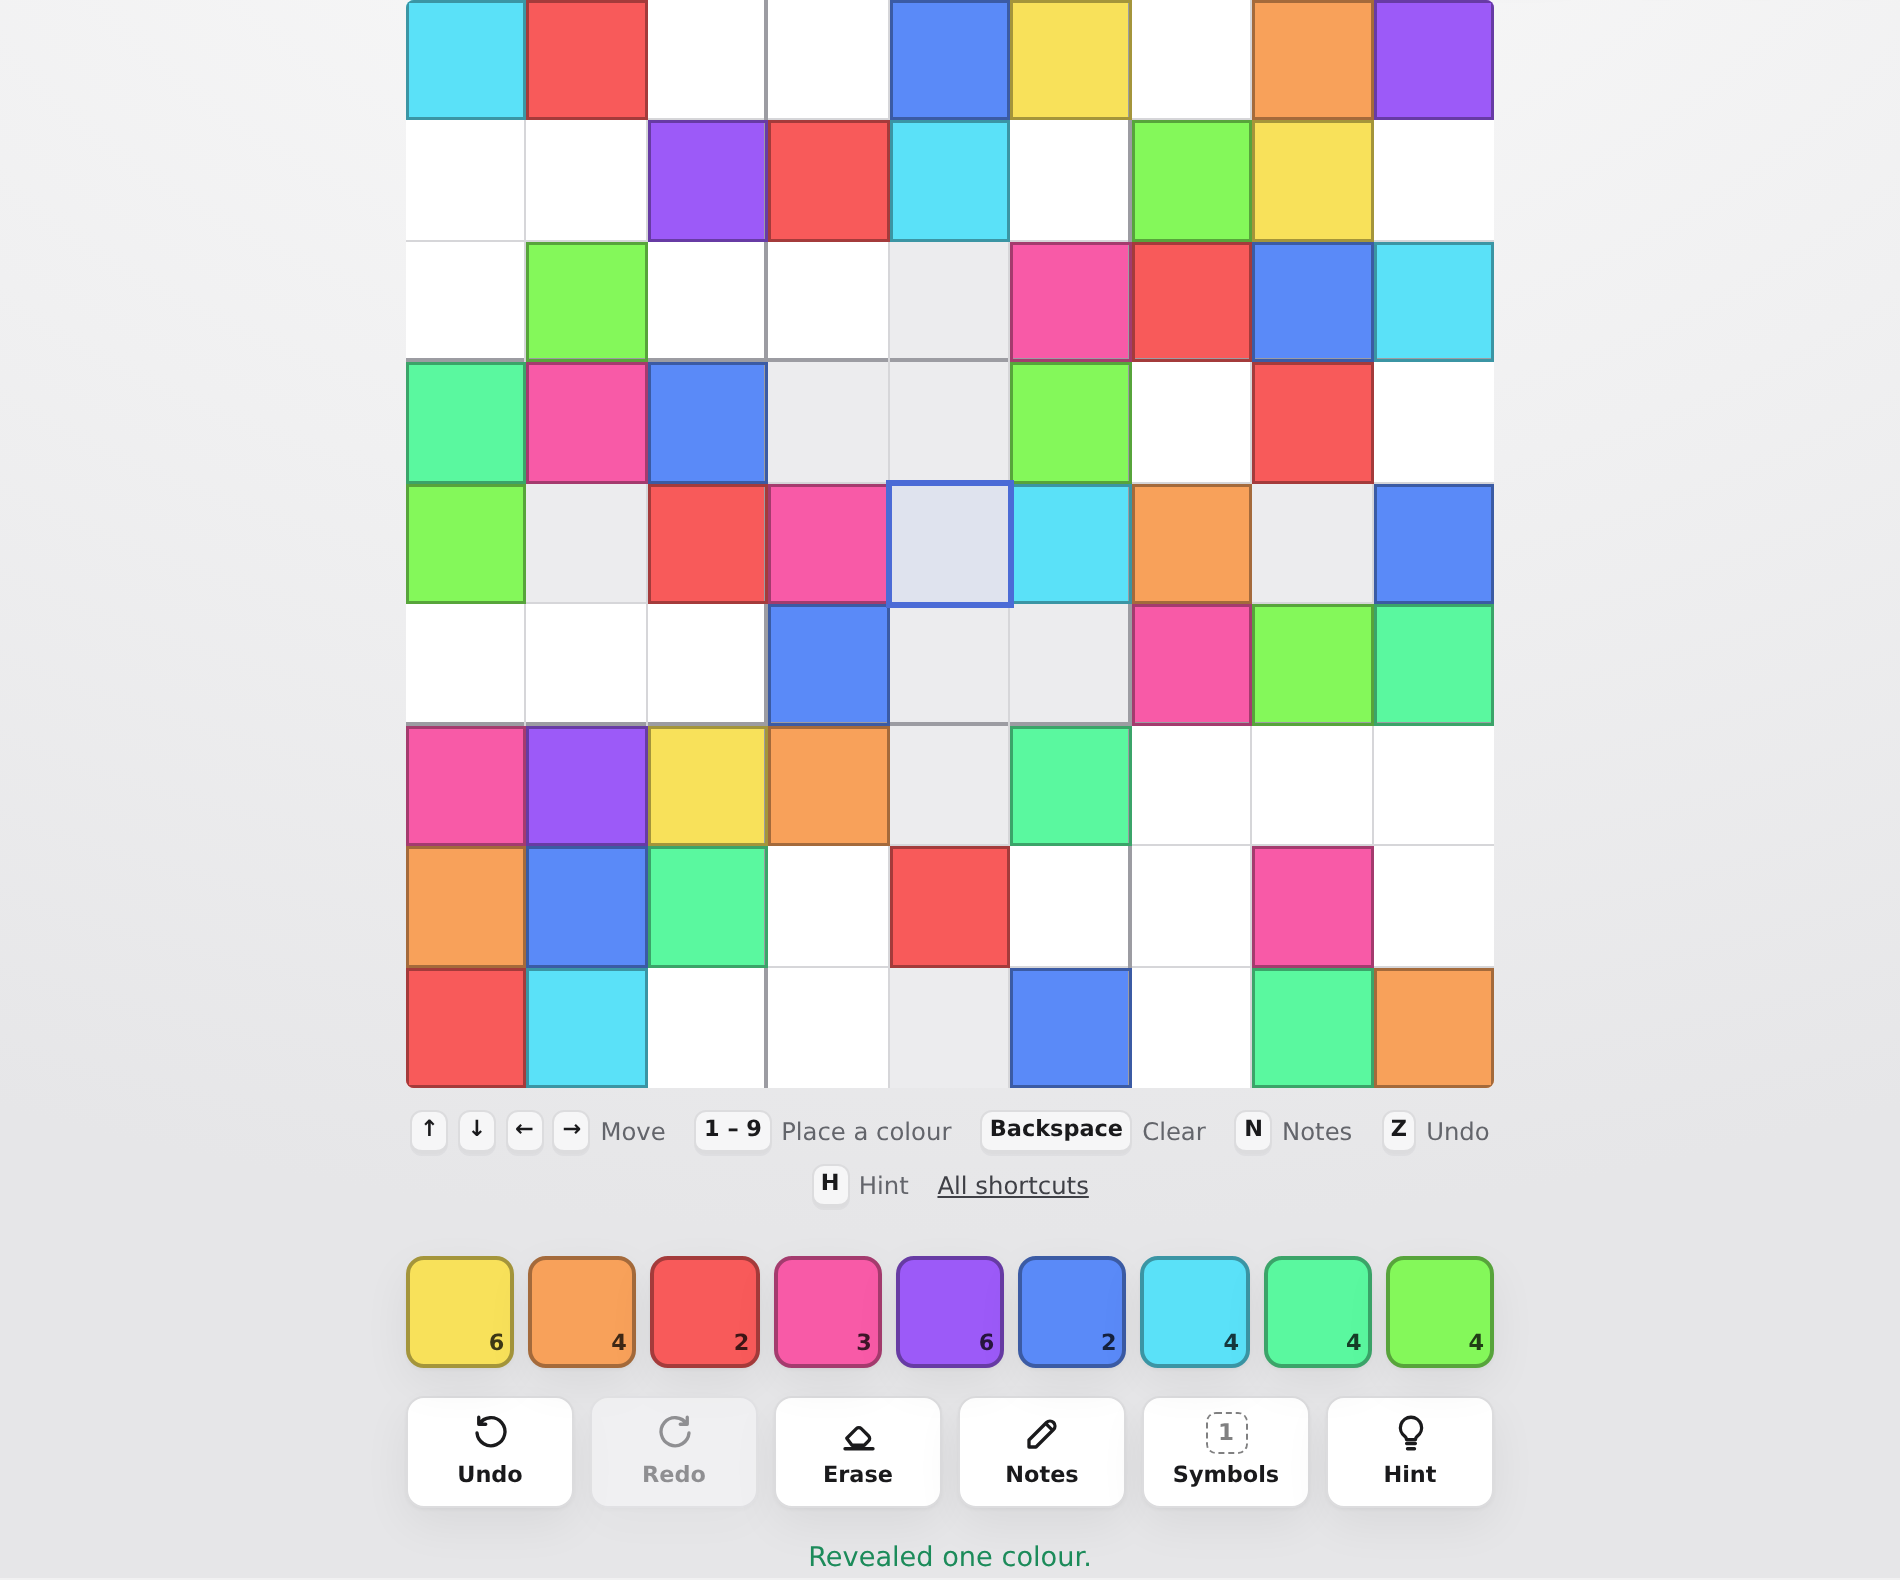
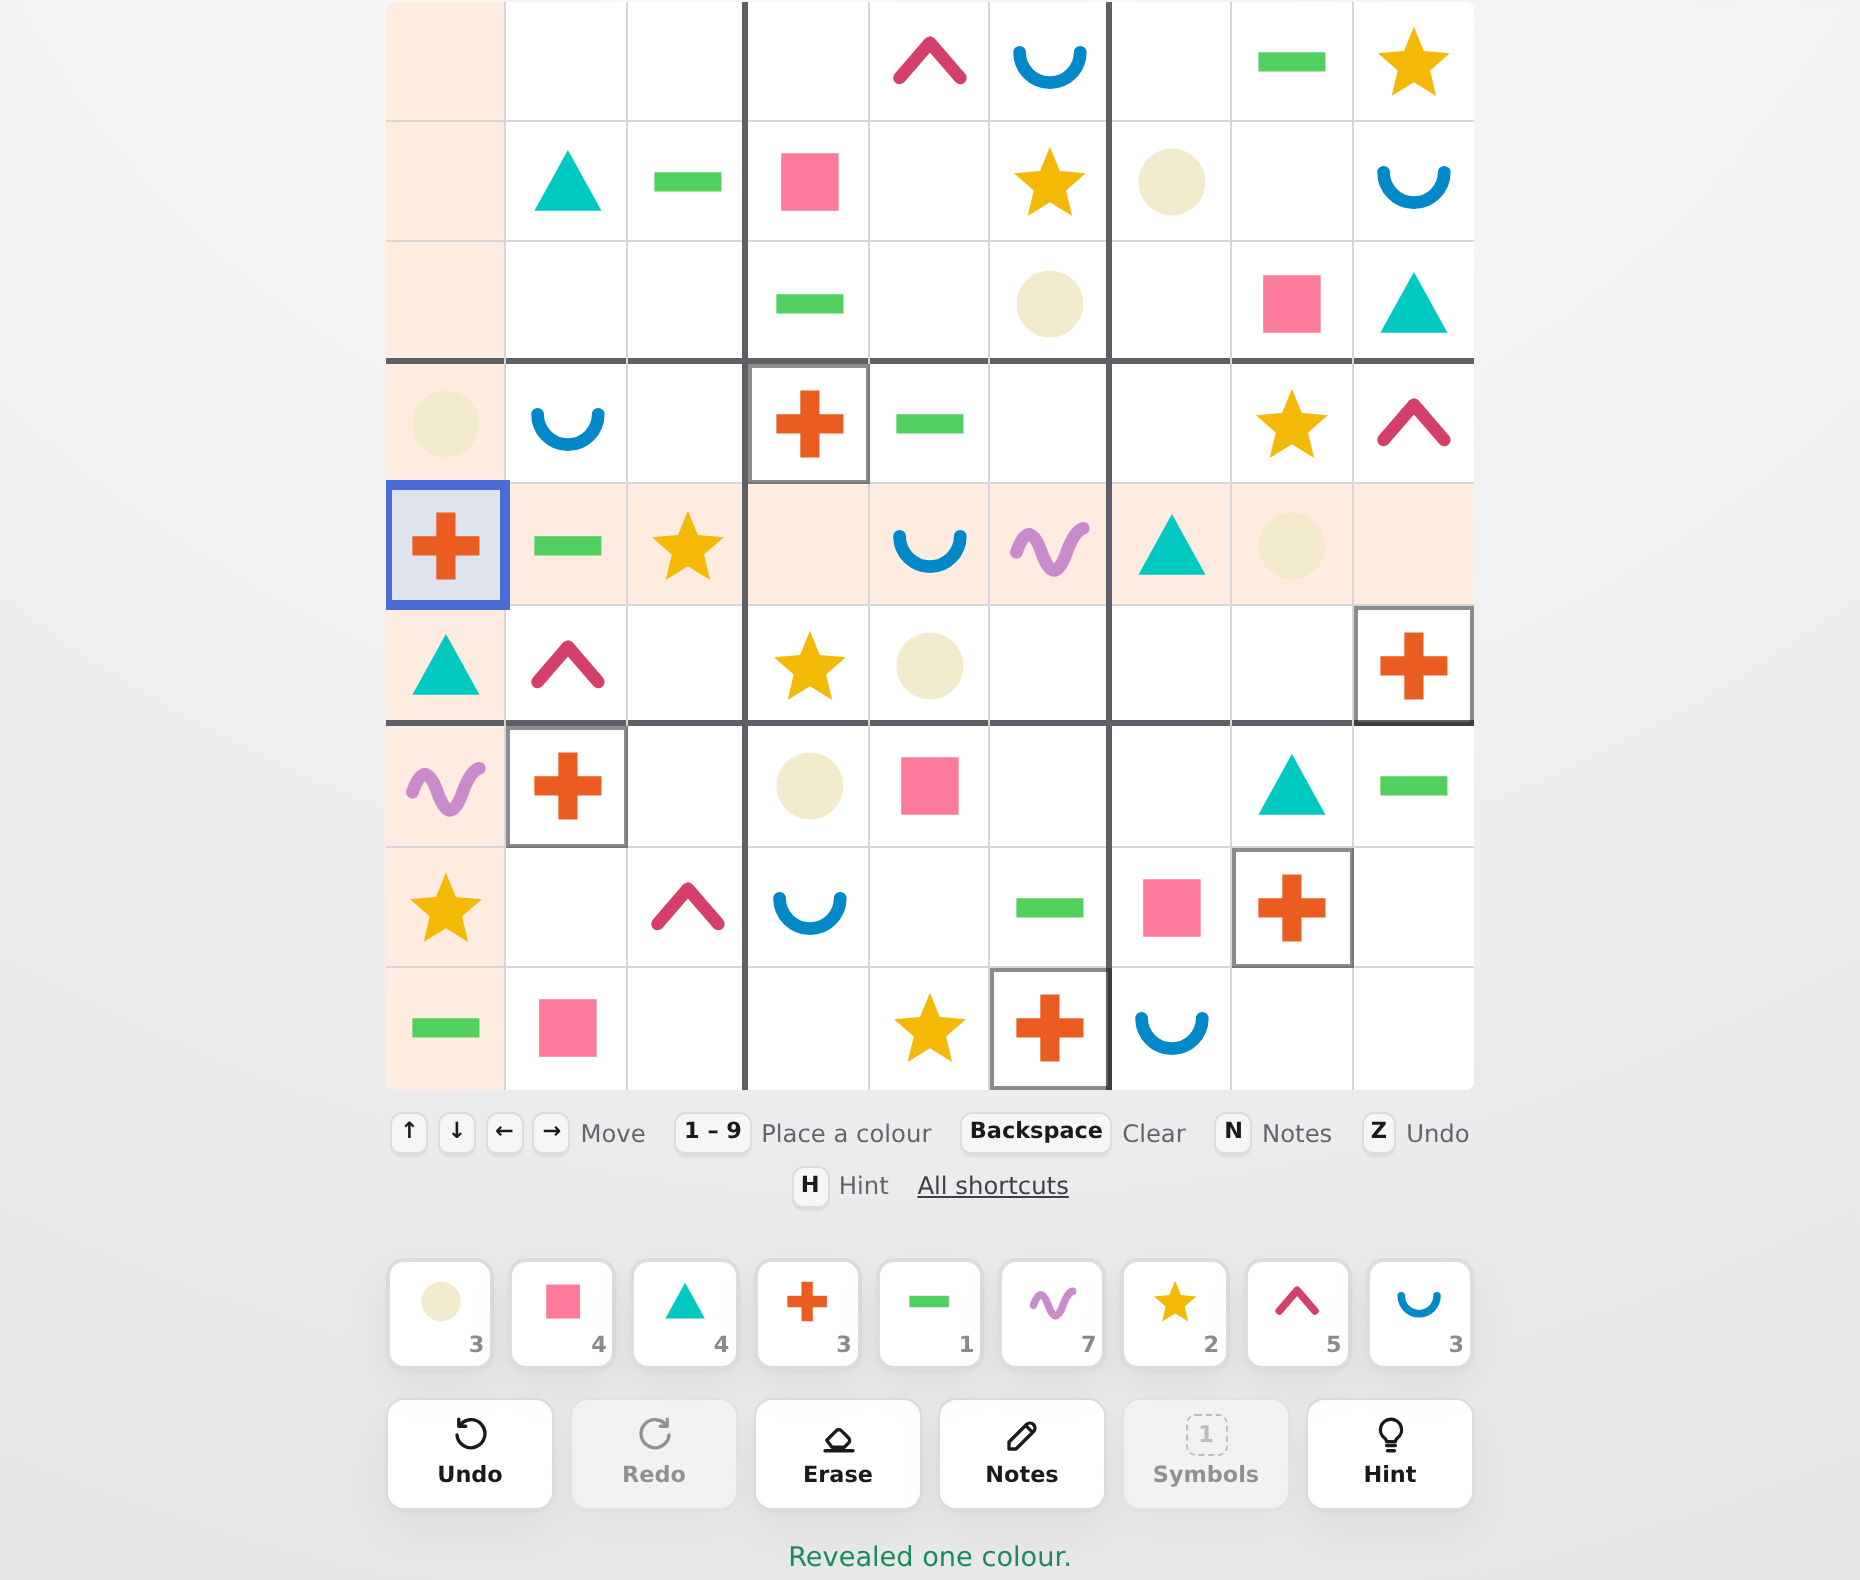
Start on 10 + 2 and shapes
The nine post-it shapes in the 10 + 2 colours are what the game should
look like the first time it is opened, so they are now the defaults
rather than a preference to go and find: DEFAULT_PALETTE_ID is
ten-plus-two and cellStyle starts at shape. The old default palette
keeps its id, so a stored setting still resolves, but it is named
Spectrum now that it is not the default; 10 + 2 moves to the head of the
preset list, which is where the default has to sit, and Shapes to the
head of the cell-style control.

The close-colours notice offered to turn symbols on, which shape mode
suppresses on the cell — it now stays quiet when the shapes are already
carrying the second cue, rather than proposing a fix that does nothing.

Screenshots regenerated on the new defaults, and the README and the
page description say what a new board actually looks like.

Claude-Session: https://claude.ai/code/session_01Viu5HWAqSGQ2eThUUhuGDF

diff --git a/index.html b/index.html
@@ -6,7 +6,7 @@
     <title>UniversalSudoku — sudoku with colours instead of numbers</title>
     <meta
       name="description"
-      content="A sudoku you play with colours instead of numbers. Pastel by default, with vibrant, colour-blind safe and grey scale presets — or pick your own nine colours."
+      content="A sudoku you play with colours and shapes instead of numbers. The 10 + 2 palette and the nine post-it shapes by default, with vibrant, colour-blind safe and grey scale presets — or pick your own nine colours."
     />
     <meta name="color-scheme" content="light dark" />
     <meta name="theme-color" content="#f4f5f8" media="(prefers-color-scheme: light)" />
@@ -294,7 +294,7 @@
         <section class="panel">
           <h3 class="panel__title">How a cell is drawn</h3>
           <p class="panel__hint">
-            Flood the cell with its colour, or draw the post-it shape that belongs to it.
+            Draw the post-it shape that belongs to the number, or flood the cell with its colour.
           </p>
           <div class="segmented" id="cell-style" role="radiogroup" aria-label="How a cell is drawn"></div>
           <div class="switches" id="colour-switches"></div>
@@ -303,8 +303,9 @@
         <section class="panel">
           <h3 class="panel__title">Symbols on the colours</h3>
           <p class="panel__hint">
-            A second cue on every cell. Helpful with the grey scale palette, or any time colours alone
-            are hard work.
+            A second cue on every cell, for when the cell is flooded with colour — in shape mode the
+            shape is already the symbol. Helpful with the grey scale palette, or any time colours
+            alone are hard work.
           </p>
           <div class="segmented" id="symbols" role="radiogroup" aria-label="Symbols on the colours"></div>
         </section>

diff --git a/src/palettes.js b/src/palettes.js
@@ -14,22 +14,6 @@ export const SWATCH_COUNT = 9;
 /** @type {Palette[]} */
 export const PRESETS = [
   {
-    id: 'default',
-    name: 'Default',
-    description: 'The spectrum, in order: yellow round to green.',
-    colors: [
-      '#f8e15a', // yellow
-      '#f8a15a', // orange
-      '#f85a5a', // red
-      '#f85aa7', // pink
-      '#9c5af8', // purple
-      '#5a8af8', // blue
-      '#5ae1f8', // cyan
-      '#5af89f', // spring green
-      '#84f85a', // green
-    ],
-  },
-  {
     id: 'ten-plus-two',
     name: '10 + 2',
     description: 'Nine colours picked to stay apart from one another.',
@@ -43,6 +27,22 @@ export const PRESETS = [
       '#f4b907', // amber
       '#d5406a', // raspberry
       '#0088c8', // blue
+    ],
+  },
+  {
+    id: 'default',
+    name: 'Spectrum',
+    description: 'The spectrum, in order: yellow round to green.',
+    colors: [
+      '#f8e15a', // yellow
+      '#f8a15a', // orange
+      '#f85a5a', // red
+      '#f85aa7', // pink
+      '#9c5af8', // purple
+      '#5a8af8', // blue
+      '#5ae1f8', // cyan
+      '#5af89f', // spring green
+      '#84f85a', // green
     ],
   },
   {
@@ -143,7 +143,7 @@ export const PRESETS = [
   },
 ];
 
-export const DEFAULT_PALETTE_ID = 'default';
+export const DEFAULT_PALETTE_ID = 'ten-plus-two';
 
 /**
  * Optional glyphs drawn on top of each colour, for extra redundancy.

diff --git a/src/settings.js b/src/settings.js
@@ -22,8 +22,8 @@ import { formatTime } from './ui.js';
 const el = (tag, className, props = {}) => Object.assign(document.createElement(tag), { className, ...props });
 
 const CELL_STYLES = [
-  ['fill', 'Colour'],
   ['shape', 'Shapes'],
+  ['fill', 'Colour'],
 ];
 
 const COLOUR_SWITCHES = [
@@ -406,7 +406,9 @@ export class SettingsSheet {
     const notice = this.refs.notice;
     const colors = resolveColors(this.settings);
     const close = findCloseColors(colors);
-    if (!close.length || this.settings.symbols !== 'none') {
+    // Nothing to warn about once a second cue is already up: a symbol on every
+    // colour, or the shapes, which are the symbols in shape mode.
+    if (!close.length || this.settings.symbols !== 'none' || this.settings.cellStyle === 'shape') {
       notice.hidden = true;
       notice.textContent = '';
       return;

diff --git a/src/storage.js b/src/storage.js
@@ -20,7 +20,7 @@ export const DEFAULT_SETTINGS = {
   /** Overrides applied on top of the chosen palette, as `{index: hex}`. */
   overrides: {},
   symbols: 'none', // none | numbers | letters
-  cellStyle: 'fill', // fill: the colour floods the cell | shape: a post-it shape in that colour
+  cellStyle: 'shape', // shape: a post-it shape in that colour | fill: the colour floods the cell
   monochrome: false, // draw every shape in one ink instead of nine colours
   lastSymbols: 'numbers', // what the symbol toggle turns back on
   theme: 'system', // system | light | dark

diff --git a/tests/storage.test.js b/tests/storage.test.js
@@ -34,6 +34,12 @@ test('settings default when nothing is stored', () => {
   assert.deepEqual(storage.loadSettings(), DEFAULT_SETTINGS);
 });
 
+test('a fresh board starts on 10 + 2, drawn as shapes', () => {
+  const settings = storage.loadSettings();
+  assert.equal(settings.paletteId, 'ten-plus-two');
+  assert.equal(settings.cellStyle, 'shape');
+});
+
 test('lastSymbols defaults to numbers so the toggle has something to restore', () => {
   assert.equal(DEFAULT_SETTINGS.lastSymbols, 'numbers');
   assert.equal(storage.loadSettings().lastSymbols, 'numbers');

diff --git a/README.md b/README.md
@@ -1,14 +1,16 @@
 # UniversalSudoku
 
-Sudoku, but the nine symbols are colours instead of digits. It ships with eight
-palettes — including a colour-blind safe one and a grey scale — an editor for
-picking your own nine colours, and the option of playing by shape instead.
+Sudoku, but the nine symbols are colours instead of digits. Out of the box each
+number is drawn as its own post-it shape in its own colour from the 10 + 2
+palette; the cell can be flooded with flat colour instead, any time. It ships
+with eight palettes — including a colour-blind safe one and a grey scale — and
+an editor for picking your own nine colours.
 
 No build step, no dependencies: it is plain HTML, CSS and ES modules.
 
 **Play it: <https://neuronids.github.io/UniversalSudoku/>**
 
-![The board with the default palette](docs/screenshot-board.png)
+![The board with the default palette and shapes](docs/screenshot-board.png)
 
 ## Play
 
@@ -37,8 +39,10 @@ does the same, as does `Esc`. Clearing a cell is the Erase button or
 `Backspace`.
 
 Every cell is drawn the same way, whether the puzzle came with it or you put it
-there yourself — one flat colour, edge to edge, on a board with no frame around
-it and unbroken lines between the nine boxes.
+there yourself — by default the number's post-it shape in the number's colour,
+on a board with no frame around it and unbroken lines between the nine boxes.
+Switching to "Colour" under **How a cell is drawn** floods the cell with that
+colour, edge to edge, instead.
 
 | Key | Does |
 | --- | --- |
@@ -87,12 +91,13 @@ already holds it, so you can sweep the board for one colour without having to
 find a cell containing it first. Selecting a cell that holds a colour highlights
 that one instead.
 
-### Shapes instead of colours
+### Shapes and colours
 
-Under **How a cell is drawn**, "Shapes" swaps the flooded colour for the shape
-that belongs to that number — circle, square, triangle, plus, minus, wave, star,
-chevron and smile, the nine post-it shapes — drawn in the number's colour on a
-plain cell. Pencil marks become miniatures of the same shapes.
+**How a cell is drawn** picks between the two. "Shapes", the default, draws the
+shape that belongs to the number — circle, square, triangle, plus, minus, wave,
+star, chevron and smile, the nine post-it shapes — in the number's colour on a
+plain cell, with pencil marks as miniatures of the same shapes. "Colour" drops
+the shape and floods the whole cell with the colour instead.
 
 **Turn colour off** goes one step further and draws every shape in a single ink.
 That turns shapes on for you, because nine identical black squares would not be
@@ -126,8 +131,8 @@ Eight presets ship with the app:
 
 | Preset | For |
 | --- | --- |
-| **Default** | The spectrum in order, yellow round to green. |
-| **10 + 2** | Nine colours picked to stay well apart from one another. |
+| **10 + 2** | Nine colours picked to stay well apart from one another. The default. |
+| **Spectrum** | The spectrum in order, yellow round to green. |
 | **Pastel** | Soft tones, tuned so no two are close. |
 | **Vibrant** | Saturated and high-energy. |
 | **Colour-blind safe** | Okabe–Ito based; stays readable without red/green vision. |
@@ -145,17 +150,20 @@ random, and save the result as a preset of your own.
 
 Colour alone is not enough for everyone, so the palette is only one of the cues:
 
-- **Shapes.** Every number has a shape as well as a colour, and the board can be
-  drawn with shapes instead of fills — or with shapes alone, colour off.
-- **Symbols.** Numbers or letters can be drawn on top of every colour,
-  toggled from the board with the Symbols button or `T` — it brings back the set
-  you last used rather than always jumping to numbers. The ink is picked
-  automatically per swatch, always at 4.5:1 contrast or better.
+- **Shapes.** Every number has a shape as well as a colour, and the board is
+  drawn with shapes rather than fills to begin with — or with shapes alone,
+  colour off.
+- **Symbols.** With the cell flooded with colour, numbers or letters can be
+  drawn on top of every one, toggled from the board with the Symbols button or
+  `T` — it brings back the set you last used rather than always jumping to
+  numbers. The ink is picked automatically per swatch, always at 4.5:1 contrast
+  or better. In shape mode the shape is already the symbol, so the toggle sits
+  out.
 - **A warning when colours are too close.** Custom palettes are checked in CIE
   L\*a\*b\* space; if two swatches land within ΔE 18 the settings sheet names the
-  pair and offers to switch symbols on. (Grey scale trips this by design — nine
-  steps of one hue cannot be far apart, which is why that preset recommends
-  symbols.)
+  pair and offers to switch symbols on — it stays quiet when a second cue is
+  already up, shapes included. (Grey scale trips this by design — nine steps of
+  one hue cannot be far apart, which is why that preset recommends symbols.)
 - **A ring on every filled cell**, in a darker or lighter shade of the fill,
   whichever separates further. A white swatch still reads as filled.
 - **Clashes marked twice over**: a red ring *and* a diagonal hatch drawn in the
@@ -174,7 +182,7 @@ name tells a screen-reader user nothing, and the number stays stable when the
 palette or symbol set changes. Light and dark themes both follow the system setting by
 default, and everything respects `prefers-reduced-motion`.
 
-![Colour-blind safe palette with numbers, dark theme](docs/screenshot-cvd-dark.png)
+![Colour-blind safe palette with numbers on flooded cells, dark theme](docs/screenshot-cvd-dark.png)
 
 ## Difficulty
 
@@ -223,7 +231,7 @@ makes them testable in plain Node.
 npm test
 ```
 
-110 tests over the engine (uniqueness, ratings, conflicts, seeded repeatability),
+111 tests over the engine (uniqueness, ratings, conflicts, seeded repeatability),
 the colour maths (contrast, perceptual distance, palette validation), the game
 state machine (undo across notes, win detection, snapshot round-trips), board
 navigation (edge clamping, wrap-around, full boards), puzzle links (round-trips
